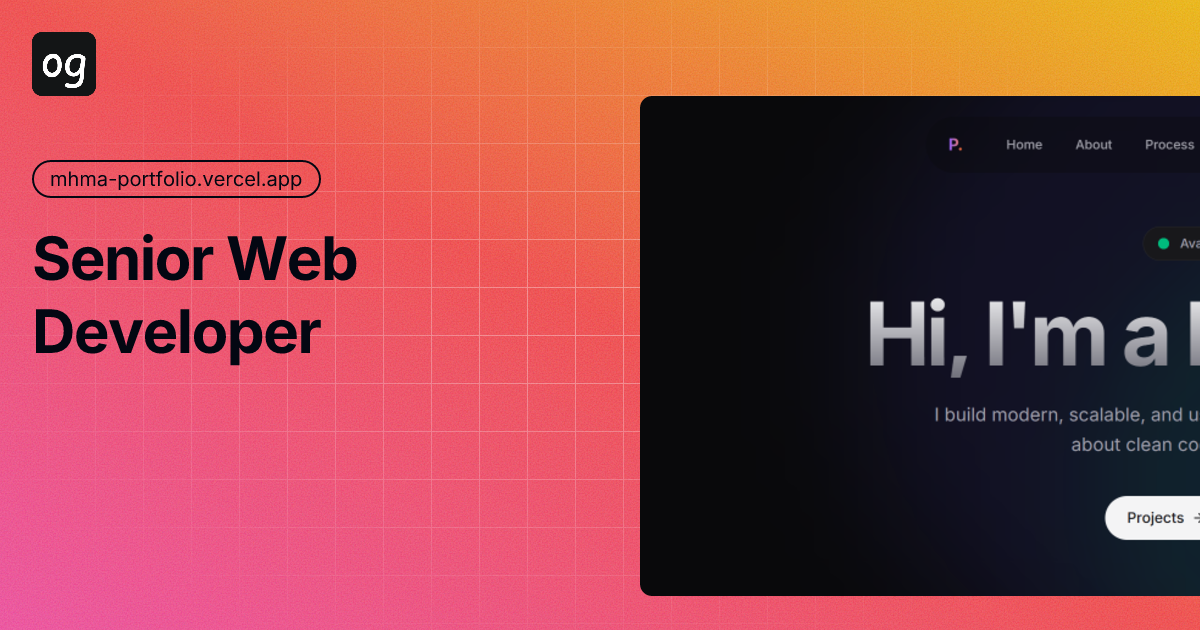
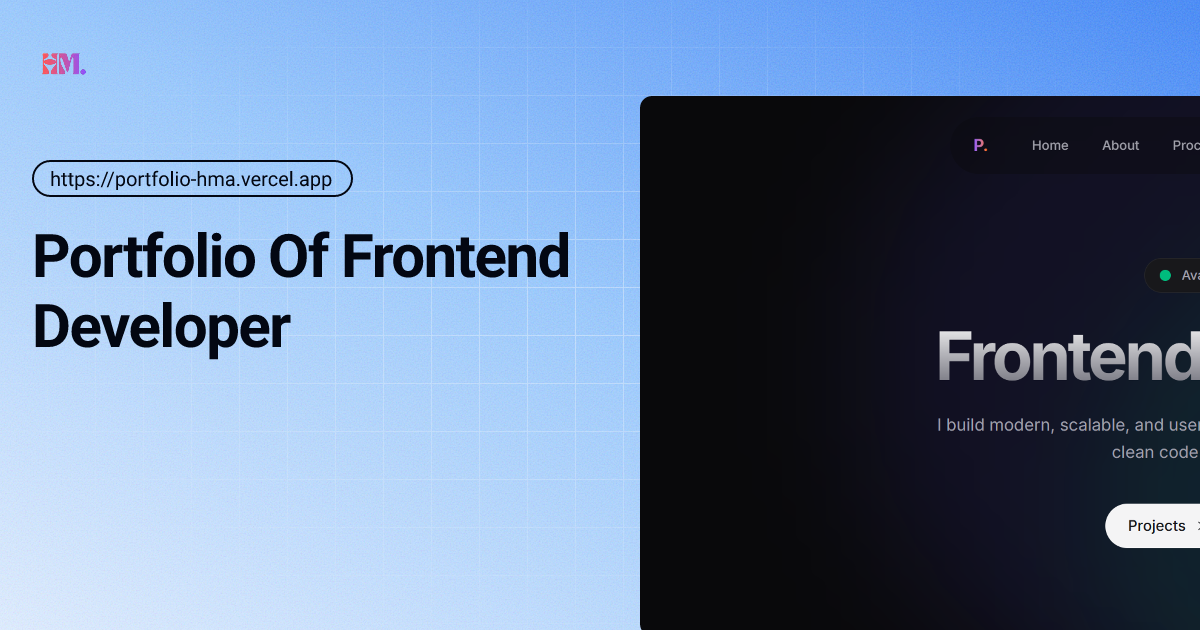
feat: add new seo features

diff --git a/app/layout.tsx b/app/layout.tsx
@@ -8,8 +8,36 @@ import { SmoothScrolling } from "@/components/smooth-scrolling";
 
 const inter = Inter({ subsets: ["latin"], variable: "--font-sans" });
 
+const jsonLd = {
+  "@context": "https://schema.org",
+  "@type": "Person",
+  name: "Htet Myat Aung",
+  jobTitle: "Senior Frontend Developer",
+  url: process.env.NEXT_PUBLIC_APP_URL || "https://portfolio-hma.vercel.app",
+  image: "../assets/og.png",
+  sameAs: [
+    process.env.NEXT_PUBLIC_GITHUB_URL ||
+      "https://github.com/your-github-username",
+    process.env.NEXT_PUBLIC_LINKEDIN_URL ||
+      "https://linkedin.com/in/your-linkedin-username",
+    process.env.NEXT_PUBLIC_TWITTER_URL ||
+      "https://twitter.com/your-twitter-handle",
+  ],
+  knowsAbout: [
+    "Frontend Development",
+    "React",
+    "Next.js",
+    "TypeScript",
+    "JavaScript",
+    "SaaS Applications",
+    "Web Performance",
+  ],
+};
+
 export const metadata: Metadata = {
-  metadataBase: new URL("https://portfolio-hma.vercel.app"),
+  metadataBase: new URL(
+    process.env.NEXT_PUBLIC_APP_URL || "https://portfolio-hma.vercel.app",
+  ),
   title: {
     default: "Htet Myat Aung | Senior Frontend Developer",
     template: "%s | Htet Myat Aung",
@@ -26,13 +54,20 @@ export const metadata: Metadata = {
     "Full-stack Developer",
   ],
   authors: [
-    { name: "Htet Myat Aung", url: "https://portfolio-hma.vercel.app" },
+    {
+      name: "Htet Myat Aung",
+      url:
+        process.env.NEXT_PUBLIC_APP_URL || "https://portfolio-hma.vercel.app",
+    },
   ],
   creator: "Htet Myat Aung",
+  alternates: {
+    canonical: "/",
+  },
   openGraph: {
     type: "website",
     locale: "en_US",
-    url: "https://portfolio-hma.vercel.app",
+    url: process.env.NEXT_PUBLIC_APP_URL || "https://portfolio-hma.vercel.app",
     title: "Htet Myat Aung | Senior Frontend Developer",
     description:
       "Portfolio of Htet Myat Aung, specializing in building modern, scalable, and user-friendly web applications.",
@@ -91,6 +126,10 @@ export default function RootLayout({
             </SmoothScrolling>
           </LanguageProvider>
         </ThemeProvider>
+        <script
+          type="application/ld+json"
+          dangerouslySetInnerHTML={{ __html: JSON.stringify(jsonLd) }}
+        />
       </body>
     </html>
   );

diff --git a/components/bento-grid.tsx b/components/bento-grid.tsx
@@ -108,7 +108,7 @@ export function BentoGrid() {
                   </p>
                 </div>
 
-                <div className="flex gap-3 opacity-0 group-hover:opacity-100 transition-opacity duration-300 translate-y-4 group-hover:translate-y-0 relative z-30">
+                <div className=" hidden sm:flex gap-3 opacity-0 group-hover:opacity-100 transition-opacity duration-300 translate-y-4 group-hover:translate-y-0 relative z-30">
                   <a
                     href="#"
                     className="p-3 rounded-full bg-white/10 backdrop-blur-md border border-white/20 text-white hover:bg-white/20 transition-colors"

diff --git a/app/sitemap.ts b/app/sitemap.ts
@@ -1,18 +1,13 @@
-import { MetadataRoute } from 'next'
- 
+import { MetadataRoute } from "next";
+
 export default function sitemap(): MetadataRoute.Sitemap {
   return [
     {
-      url: 'https://htetmyataung.com',
+      url:
+        process.env.NEXT_PUBLIC_APP_URL || "https://portfolio-hma.vercel.app",
       lastModified: new Date(),
-      changeFrequency: 'weekly',
+      changeFrequency: "monthly",
       priority: 1,
     },
-    {
-      url: 'https://htetmyataung.com/ai-assistant',
-      lastModified: new Date(),
-      changeFrequency: 'monthly',
-      priority: 0.8,
-    },
-  ]
+  ];
 }

diff --git a/app/robots.ts b/app/robots.ts
@@ -1,11 +1,13 @@
-import { MetadataRoute } from 'next'
- 
+import { MetadataRoute } from "next";
+
 export default function robots(): MetadataRoute.Robots {
   return {
     rules: {
-      userAgent: '*',
-      allow: '/',
+      userAgent: "*",
+      allow: "/",
     },
-    sitemap: 'https://htetmyataung.com/sitemap.xml',
-  }
+    sitemap: process.env.NEXT_PUBLIC_APP_URL
+      ? `${process.env.NEXT_PUBLIC_APP_URL}/sitemap.xml`
+      : "https://portfolio-hma.vercel.app/sitemap.xml",
+  };
 }

diff --git a/components/navbar.tsx b/components/navbar.tsx
@@ -59,7 +59,7 @@ export function Navbar() {
         {/* Logo */}
         <Link href="/#home" className="text-lg font-bold tracking-tighter mr-4">
           <span className="bg-clip-text text-transparent bg-linear-to-r from-violet-500 to-orange-500">
-            P.
+            HM.
           </span>
         </Link>
 
